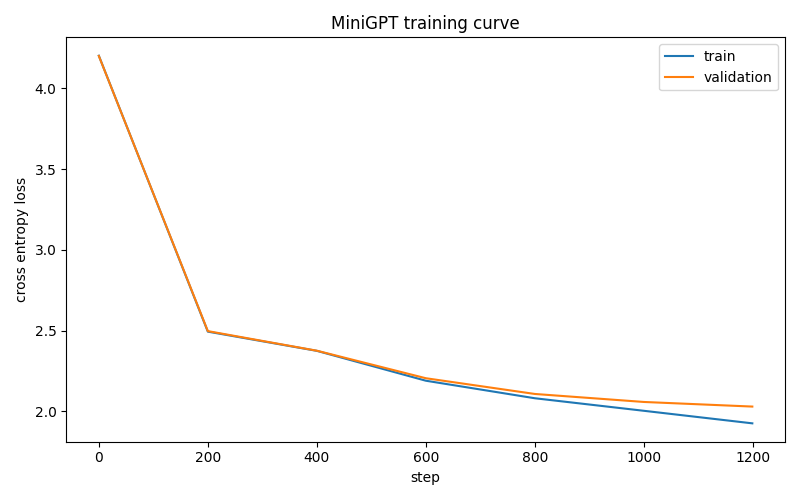
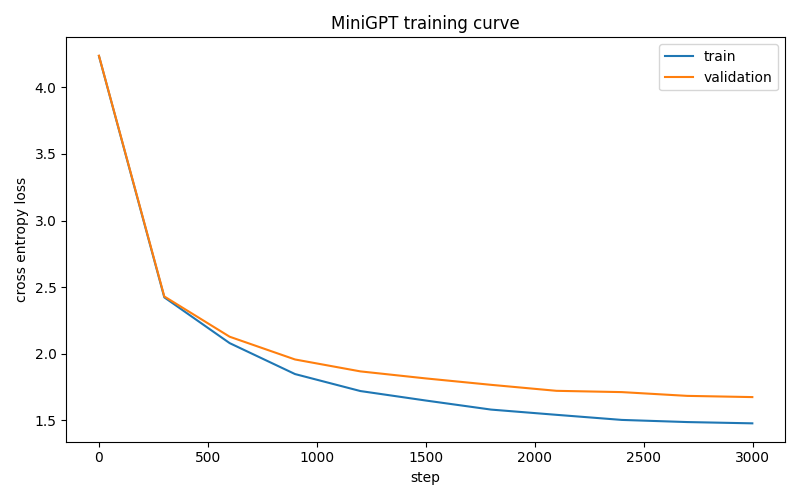
Update 3000-step training results

diff --git a/README.md b/README.md
@@ -6,21 +6,27 @@ This is a portfolio project designed to show practical understanding of how GPT-
 
 ## Results
 
-I trained a 0.82M parameter version on the Tiny Shakespeare dataset for 1,200 steps.
+I trained a 3.21M parameter version on the Tiny Shakespeare dataset for 3,000 steps. Validation loss improved from `4.2369` to `1.6748`.
 
 ![Training loss curve](assets/loss_curve.png)
 
-| Step | Train loss | Validation loss |
-| ---: | ---: | ---: |
-| 0 | 4.2010 | 4.1996 |
-| 200 | 2.4937 | 2.4969 |
-| 400 | 2.3748 | 2.3757 |
-| 600 | 2.1899 | 2.2053 |
-| 800 | 2.0814 | 2.1080 |
-| 1000 | 2.0038 | 2.0585 |
-| 1199 | 1.9262 | 2.0300 |
+| Step | Train loss | Validation loss | LR |
+| ---: | ---: | ---: | ---: |
+| 0 | 4.2348 | 4.2369 | 1.50e-06 |
+| 300 | 2.4233 | 2.4301 | 2.99e-04 |
+| 600 | 2.0798 | 2.1278 | 2.87e-04 |
+| 900 | 1.8476 | 1.9571 | 2.60e-04 |
+| 1200 | 1.7201 | 1.8677 | 2.24e-04 |
+| 1500 | 1.6490 | 1.8150 | 1.80e-04 |
+| 1800 | 1.5809 | 1.7667 | 1.35e-04 |
+| 2100 | 1.5417 | 1.7218 | 9.32e-05 |
+| 2400 | 1.5034 | 1.7121 | 5.95e-05 |
+| 2700 | 1.4873 | 1.6839 | 3.76e-05 |
+| 2999 | 1.4778 | 1.6748 | 3.00e-05 |
 
-Example generated text is available in [docs/sample_shakespeare.txt](docs/sample_shakespeare.txt). The output is intentionally imperfect because this is a small character-level model trained locally, but it learns Shakespeare-like structure, names, spacing, and word patterns.
+Previous baseline: a 0.82M parameter model trained for 1,200 steps reached `2.0300` validation loss. The larger 3.21M parameter run reduced validation loss by about 17.5%.
+
+Example generated text is available in [docs/sample_shakespeare.txt](docs/sample_shakespeare.txt). The output is intentionally imperfect because this is a small character-level model trained locally, but it learns Shakespeare-like structure, speaker names, line breaks, and word patterns.
 
 ## Features
 
@@ -103,19 +109,19 @@ For a quick smoke test:
 python src/train.py --data data/tiny_sample.txt --max-iters 20 --block-size 32 --batch-size 4 --eval-iters 2
 ```
 
-Command used for the included training result:
+Command used for the included 3,000-step training result:
 
 ```bash
 python src/train.py \
   --data data/shakespeare.txt \
-  --max-iters 1200 \
-  --block-size 64 \
+  --max-iters 3000 \
+  --block-size 128 \
   --batch-size 32 \
-  --eval-iters 25 \
-  --eval-interval 200 \
-  --warmup-iters 100 \
+  --eval-iters 50 \
+  --eval-interval 300 \
+  --warmup-iters 200 \
   --min-lr 3e-5 \
-  --n-embd 128 \
+  --n-embd 256 \
   --n-head 4 \
   --n-layer 4
 ```